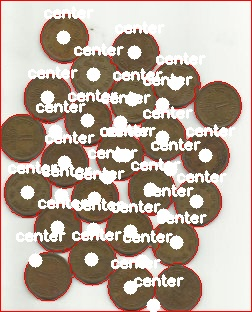
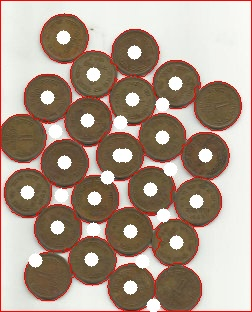
update
update

diff --git a/computer-vision/computer_vision_Assignments/coin_detection/coin_toss.py b/computer-vision/computer_vision_Assignments/coin_detection/coin_toss.py
@@ -58,7 +58,7 @@ for contour in cnts:
         if cv2.contourArea(contour) > 100:
             # cv2.drawContours(dup, [contour], -1, (0, 255, 0), 2)
             cv2.circle(dup, (cX, cY), 7, (255, 255, 255), -1)
-            cv2.putText(dup, "center", (cX - 20, cY - 20), cv2.FONT_HERSHEY_SIMPLEX, 0.5, (255, 255, 255), 2)
+            # cv2.putText(dup, "center", (cX - 20, cY - 20), cv2.FONT_HERSHEY_SIMPLEX, 0.5, (255, 255, 255), 2)
     except:
         pass
 cv2.imshow("input", input)

diff --git a/computer-vision/computer_vision_Assignments/coin_detection/videos.py b/computer-vision/computer_vision_Assignments/coin_detection/videos.py
@@ -1,0 +1,14 @@
+import cv2
+import numpy as np
+import matplotlib.pyplot as plt
+import imutils
+
+video = cv2.VideoCapture("cointoss.mp4")
+
+while True:
+    ret, img = video.read()
+    if ret:
+        input = img.copy()
+
+        gray = cv2.imread('water_coins.jpg', 0)
+        ret, thresh = cv2.threshold(gray, 0, 255, cv2.THRESH_BINARY_INV + cv2.THRESH_OTSU)
